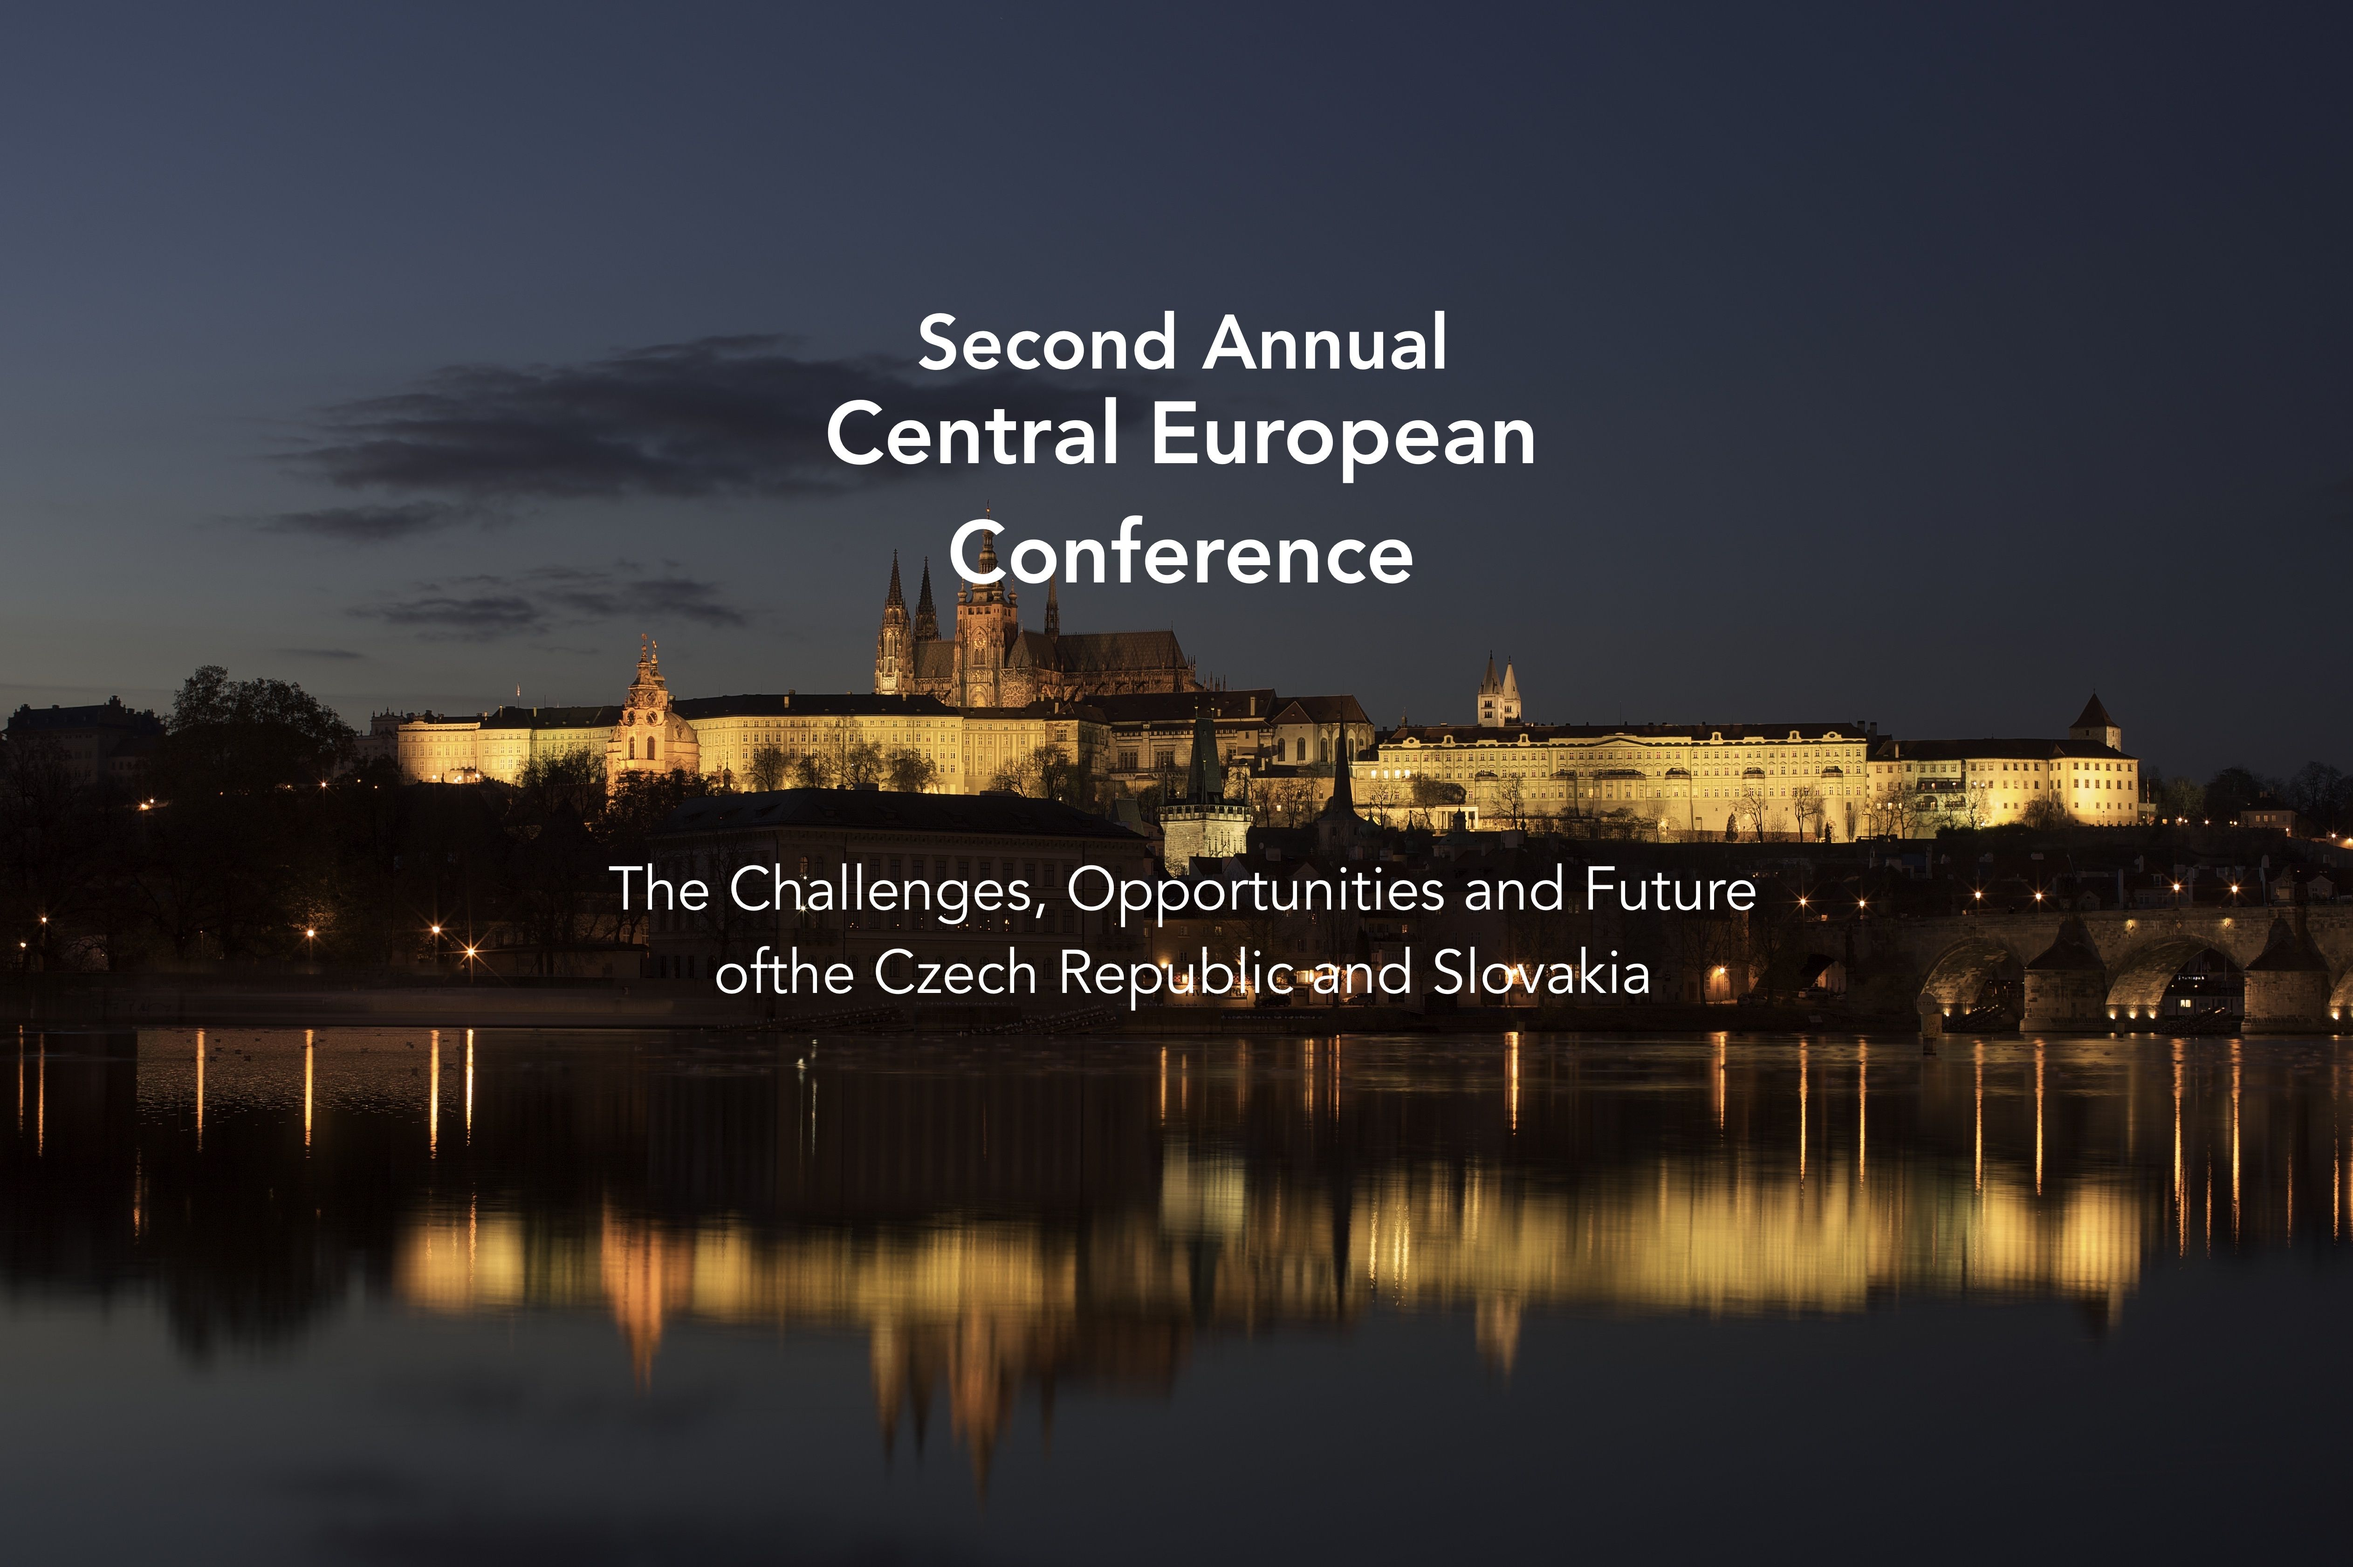
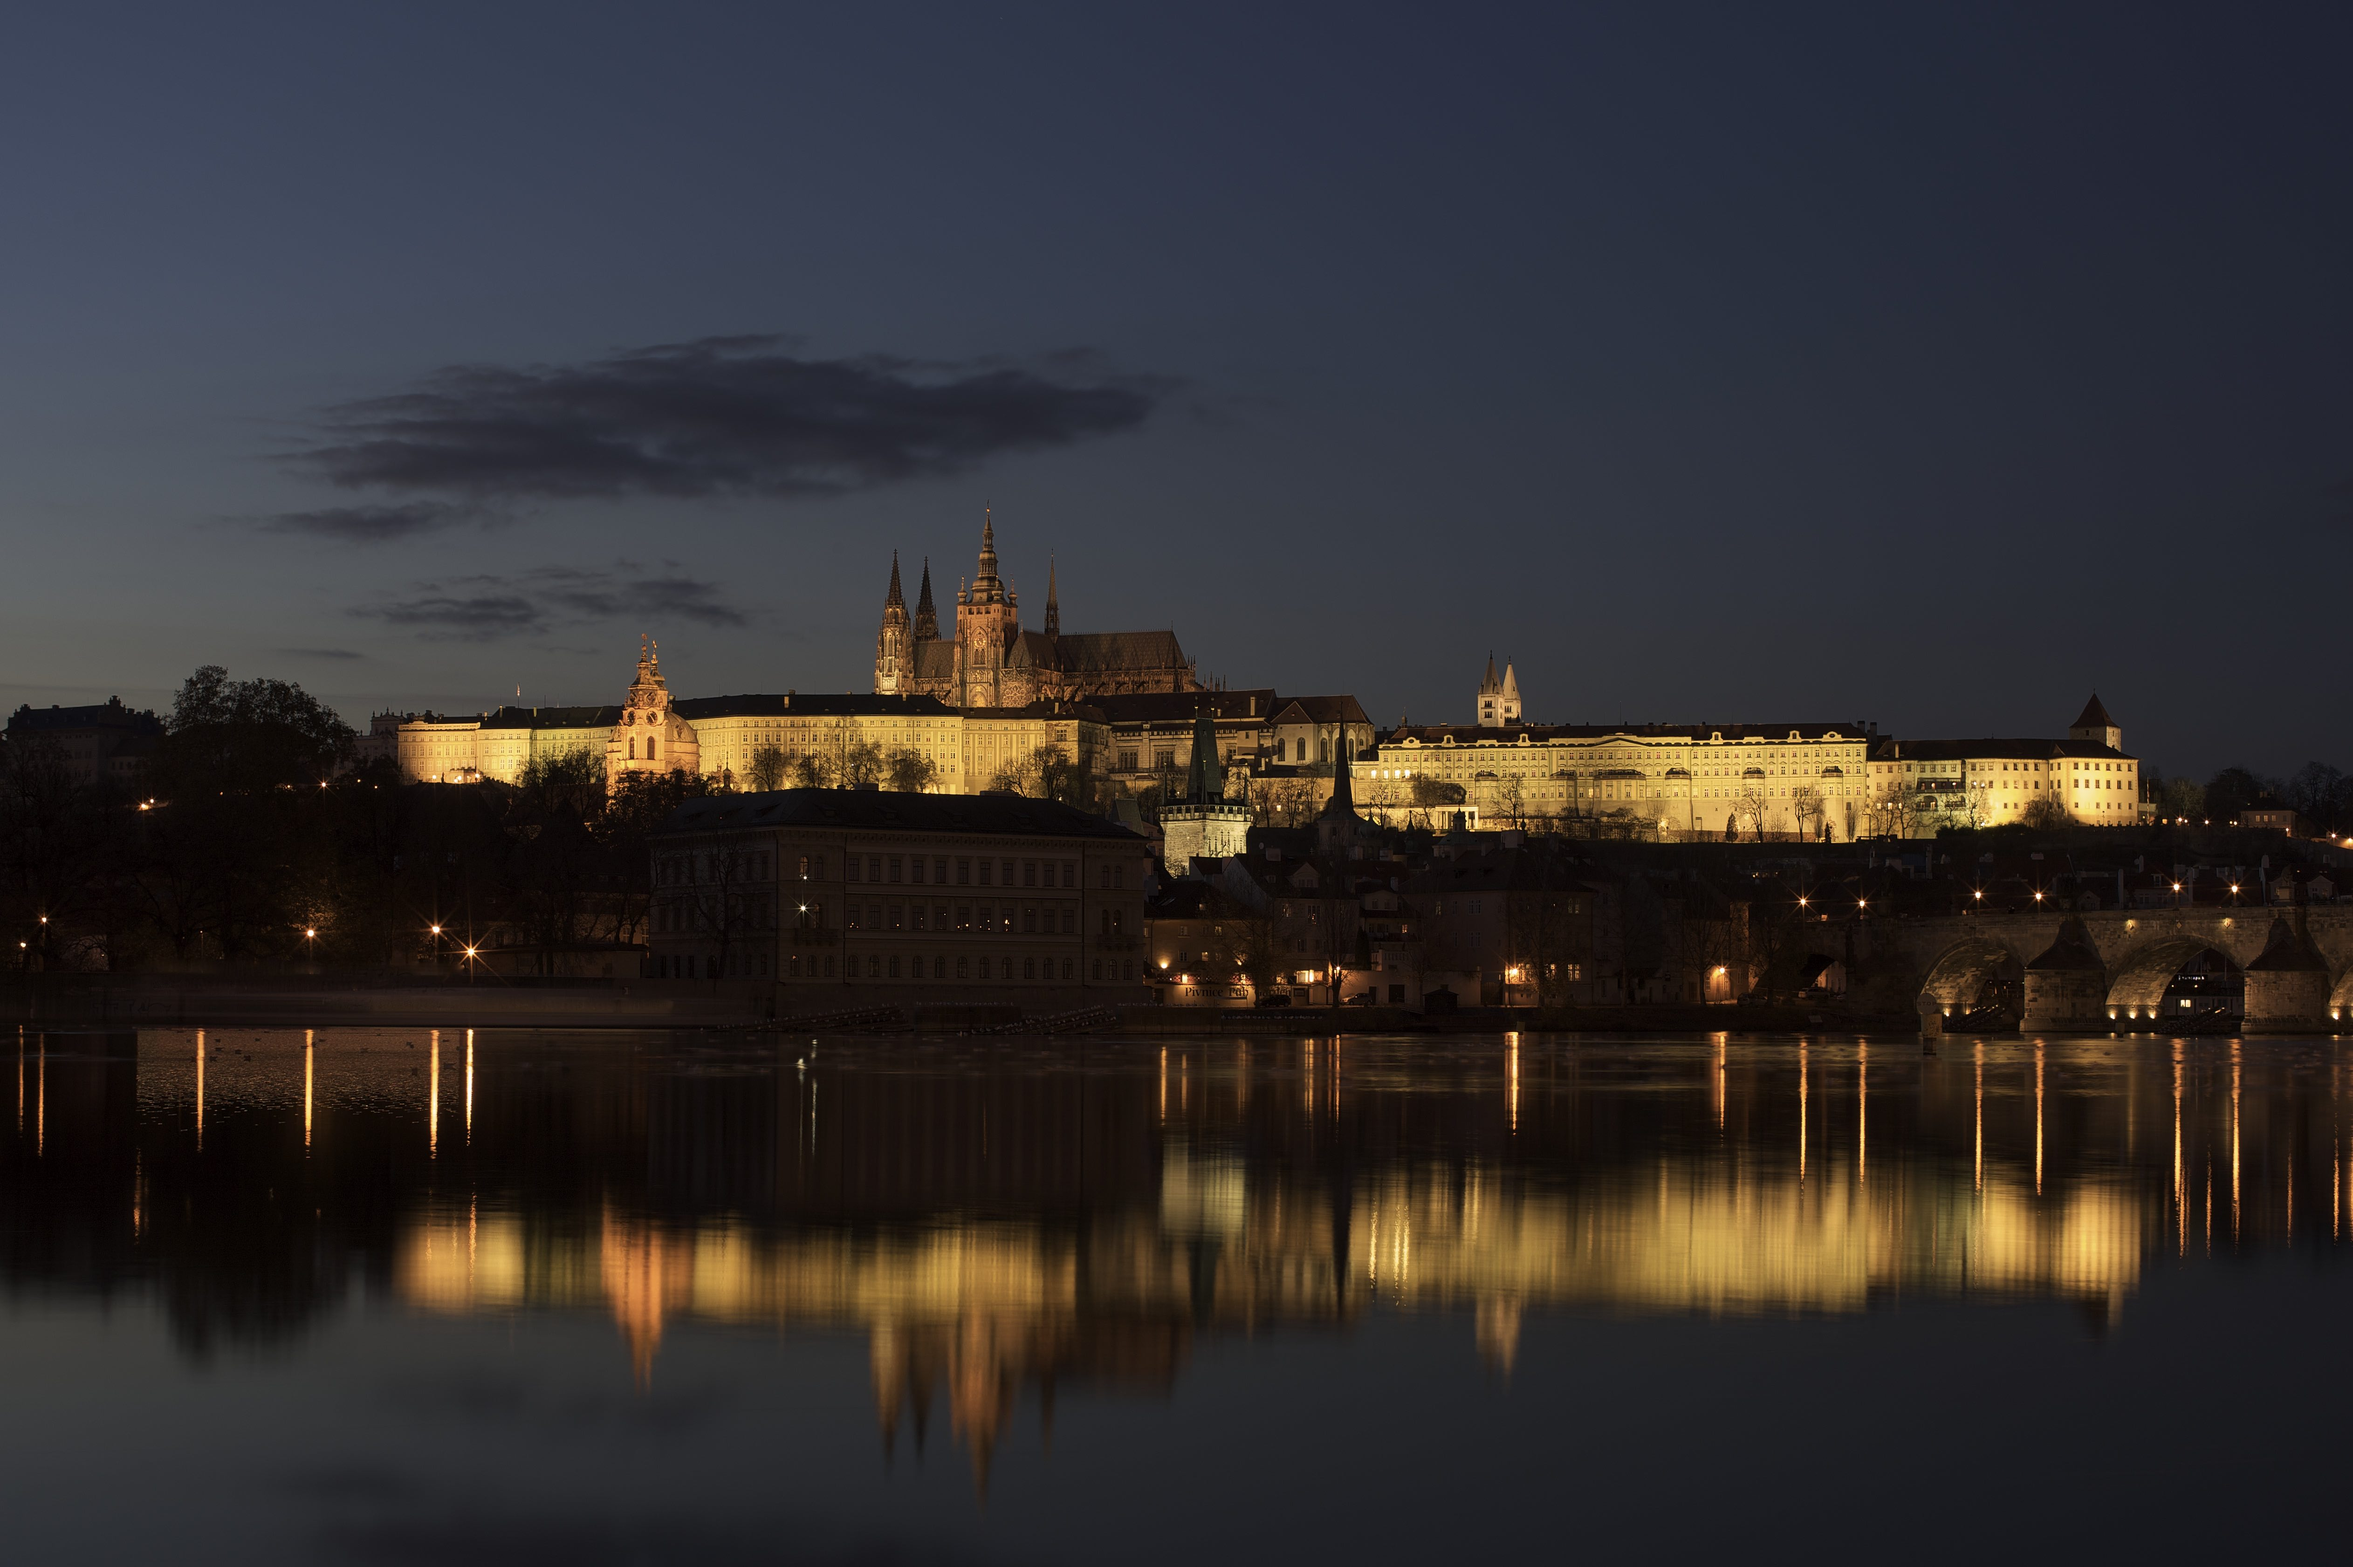
separate text on main pic, revert to working navbar

Changed region(s): [[0.342, 0.1873, 0.653, 0.3747], [0.2799, 0.562, 0.7463, 0.6557]]

diff --git a/index.html b/index.html
@@ -66,8 +66,13 @@
 
     <header class="masthead text-center text-white d-flex">
       <div class="container my-auto">
-        <div class="row top-buffer">
-          <div class="col-lg-8 mx-auto">
+        <div class="row">
+        	<div class="col-lg-8 mx-auto">
+        		<h1>
+        			Second Annual <br>Central European <br>Conference
+            	</h1>
+        	</div>
+          <div class="col-lg-8 mx-auto" style="padding-top: 300px">
             <a class="btn btn-primary btn-xl js-scroll-trigger" href="#about">Find Out More</a>
           </div>
         </div>
@@ -80,11 +85,9 @@
       		<h2 class="section-heading text-white">Second Annual Central European Conference</h2>
       	</div>
         <div class="row">
-	        <div class="col-sm-5 mx-auto text-right">
-	        	<h5 class="section-heading text-white">Old Theatre, LSE</h5>
-		   	</div>
-		    <div class="col-sm-5 mx-auto text-left">
-		        <h5 class="section-heading text-white">10 March 2018</h5>
+	        <div class="col-sm-5 mx-auto text-centre">
+	        	<h5 class="section-heading text-white">Old Theatre, LSE<br>
+		   		10 March 2018</h5>
 		    </div>
 		</div>
            <!--  <div class="text-left"> -->
